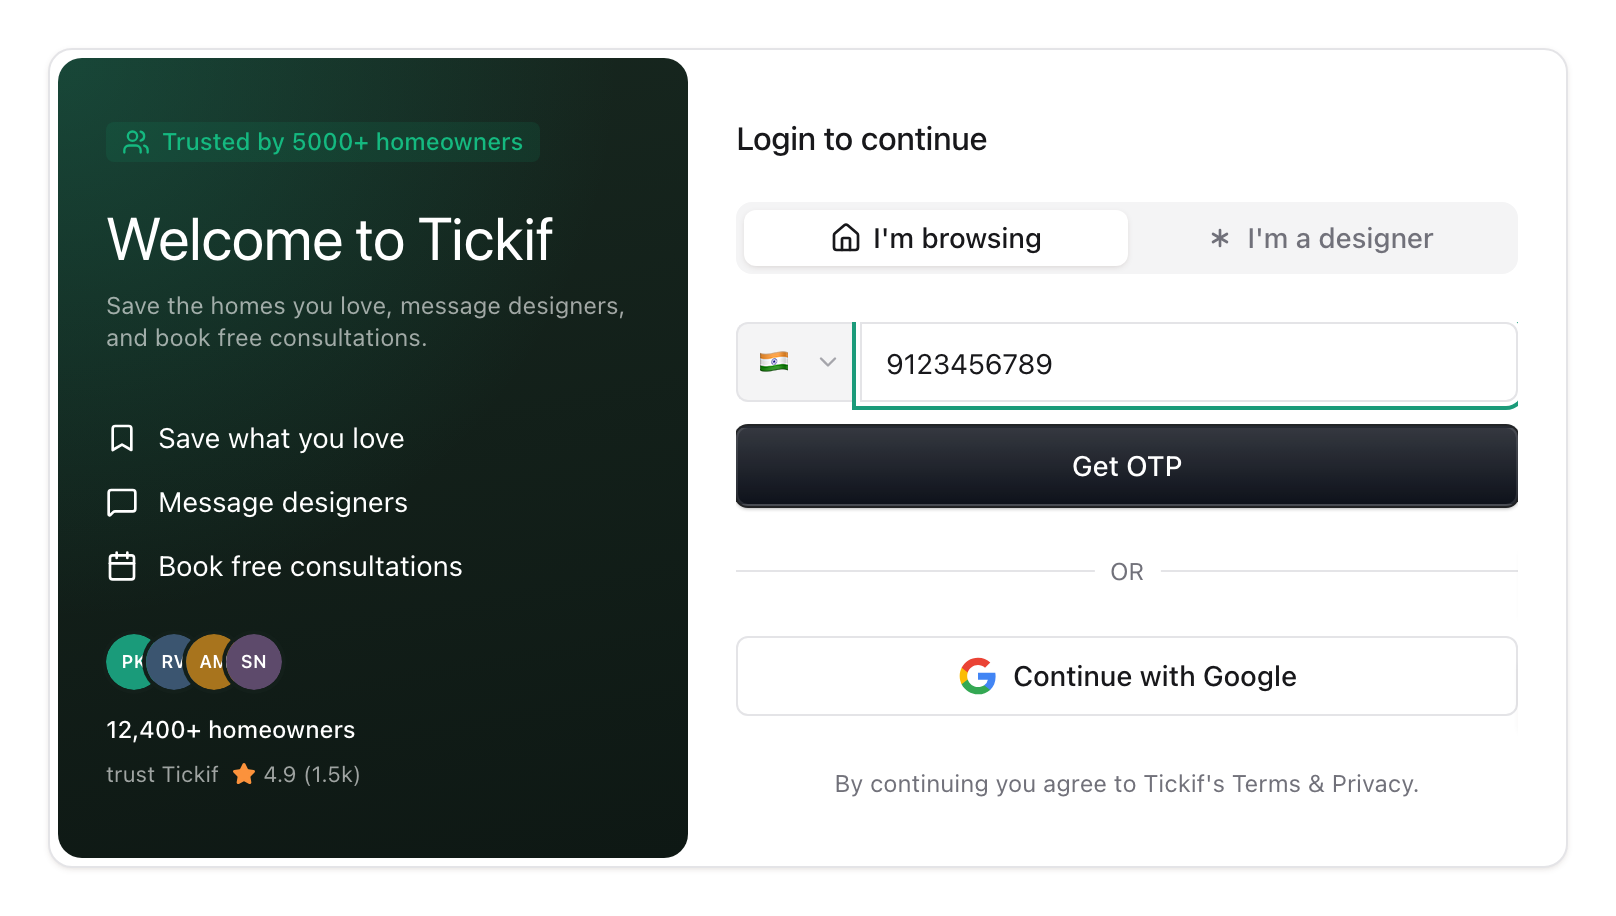
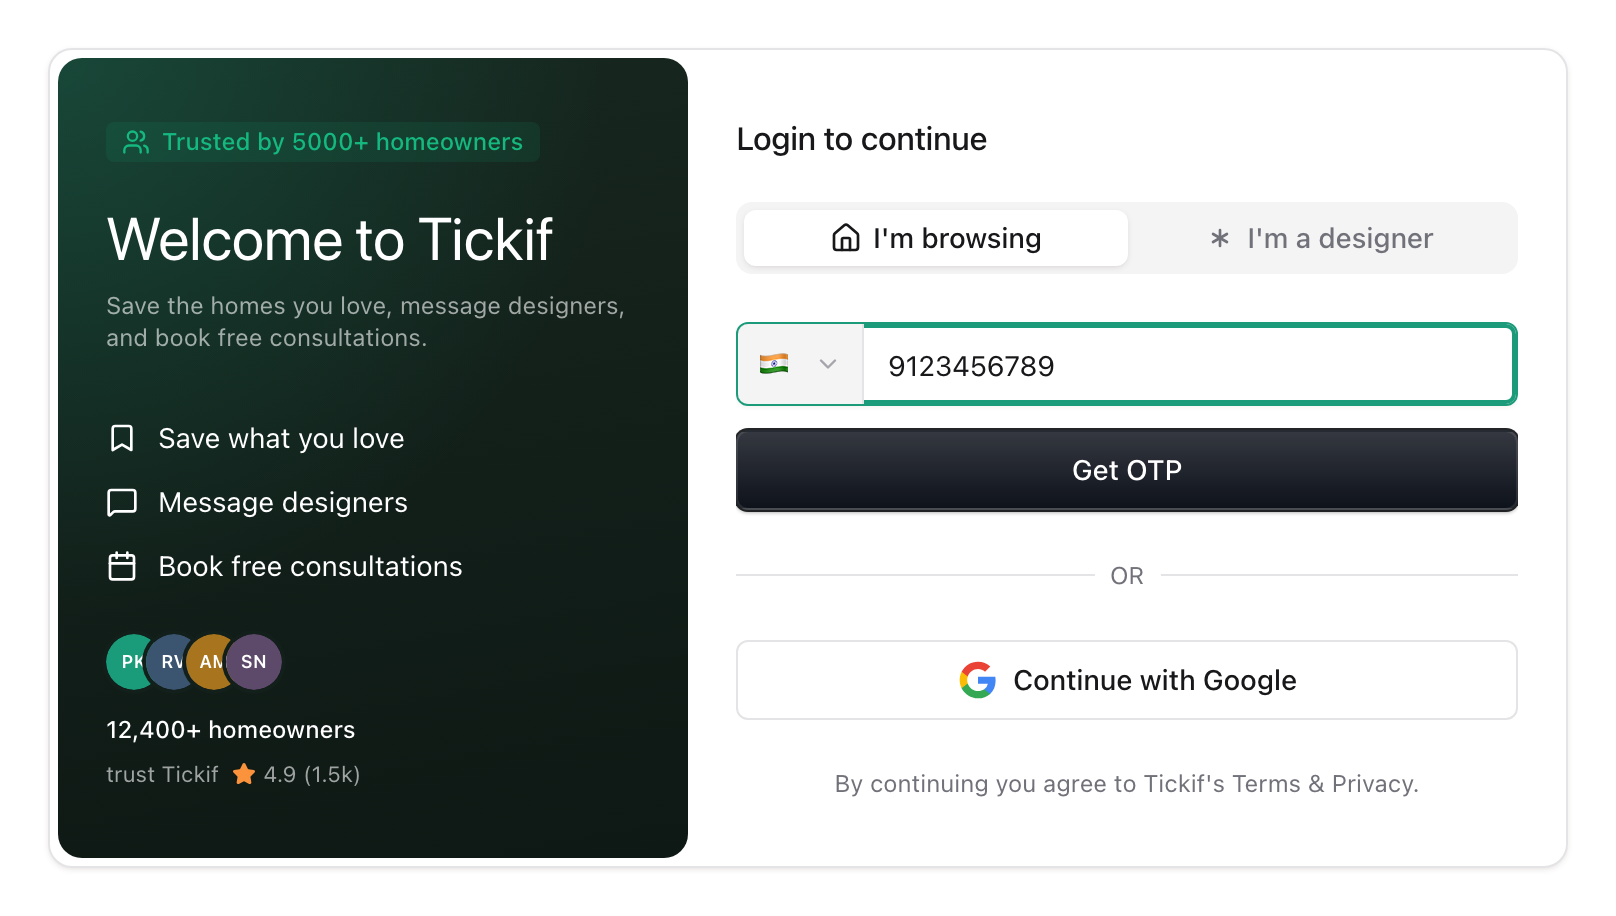
fix(web): clean up login card input focus + tab transition
- Phone field is now a single focus-within container (flag + input share one
  border) with an inset ring, so the focus ring no longer renders on a
  half-rounded box or get clipped by the slide container's overflow.
- Fade the inactive segmented-control panel to opacity-0 so its off-screen
  edge (the dark Get OTP button) no longer bleeds a 1px line into the active
  panel during/after the transition.
- Refresh the PR screenshot.

diff --git a/apps/web/src/components/login-card.tsx b/apps/web/src/components/login-card.tsx
@@ -382,9 +382,16 @@ export function LoginCard({ onSuccess, onClose }: LoginCardProps) {
                     className="flex transition-transform duration-300 ease-in-out"
                     style={{ transform: `translateX(${loginMode === 'browsing' ? '0%' : '-100%'})` }}
                   >
-                    <div className="flex w-full shrink-0 flex-col gap-3" inert={loginMode !== 'browsing'} aria-hidden={loginMode !== 'browsing'}>
+                    <div
+                      className={cn(
+                        'flex w-full shrink-0 flex-col gap-3 transition-opacity duration-300',
+                        loginMode === 'browsing' ? 'opacity-100' : 'opacity-0',
+                      )}
+                      inert={loginMode !== 'browsing'}
+                      aria-hidden={loginMode !== 'browsing'}
+                    >
                       <div className="flex flex-col gap-1.5">
-                        <div className="flex">
+                        <div className="flex items-stretch overflow-hidden rounded-md border border-input bg-background shadow-xs transition-[border-color,box-shadow] focus-within:border-ring focus-within:ring-2 focus-within:ring-ring focus-within:ring-inset">
                           <DropdownMenu
                             onOpenChange={(open) => {
                               if (!open) setCountrySearch('');
@@ -393,7 +400,7 @@ export function LoginCard({ onSuccess, onClose }: LoginCardProps) {
                             <DropdownMenuTrigger asChild>
                               <button
                                 type="button"
-                                className="inline-flex items-center gap-2 rounded-l-md border border-r-0 border-input bg-muted px-2.5 py-2 text-sm text-muted-foreground outline-none transition-colors hover:bg-accent hover:text-accent-foreground focus-visible:outline-none focus-visible:ring-2 focus-visible:ring-ring focus-visible:ring-offset-2"
+                                className="inline-flex items-center gap-2 bg-muted px-2.5 text-sm text-muted-foreground outline-none transition-colors hover:bg-accent hover:text-accent-foreground focus-visible:outline-none disabled:pointer-events-none disabled:opacity-50"
                                 disabled={loading}
                               >
                                 <span className="text-base leading-none">{selectedCountry.flag}</span>
@@ -453,7 +460,7 @@ export function LoginCard({ onSuccess, onClose }: LoginCardProps) {
                             onKeyDown={(e) => {
                               if (e.key === 'Enter') handleSendOtp();
                             }}
-                            className="-ml-px rounded-l-none"
+                            className="h-10 min-w-0 flex-1 rounded-none border-0 border-l border-input bg-transparent shadow-none focus-visible:ring-0 focus-visible:ring-offset-0"
                             disabled={loading}
                             autoComplete="tel"
                           />
@@ -476,7 +483,14 @@ export function LoginCard({ onSuccess, onClose }: LoginCardProps) {
                       </div>
                     </div>
 
-                    <div className="flex w-full shrink-0 flex-col gap-4" inert={loginMode !== 'designer'} aria-hidden={loginMode !== 'designer'}>
+                    <div
+                      className={cn(
+                        'flex w-full shrink-0 flex-col gap-4 transition-opacity duration-300',
+                        loginMode === 'designer' ? 'opacity-100' : 'opacity-0',
+                      )}
+                      inert={loginMode !== 'designer'}
+                      aria-hidden={loginMode !== 'designer'}
+                    >
                       <GoogleSignInButton label="Login with Google" loading={loading} onClick={handleGoogleLogin} />
 
                       <OrSeparator className="my-2" />
@@ -494,7 +508,7 @@ export function LoginCard({ onSuccess, onClose }: LoginCardProps) {
                             id="designer-email"
                             type="email"
                             placeholder="you@example.com"
-                            className="pl-10"
+                            className="pl-10 focus-visible:ring-inset focus-visible:ring-offset-0"
                             disabled
                           />
                         </div>
